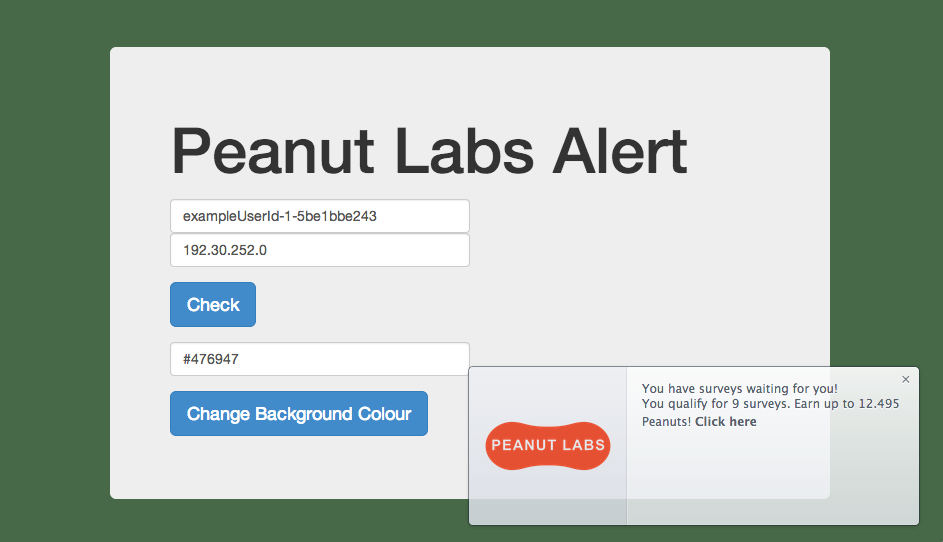
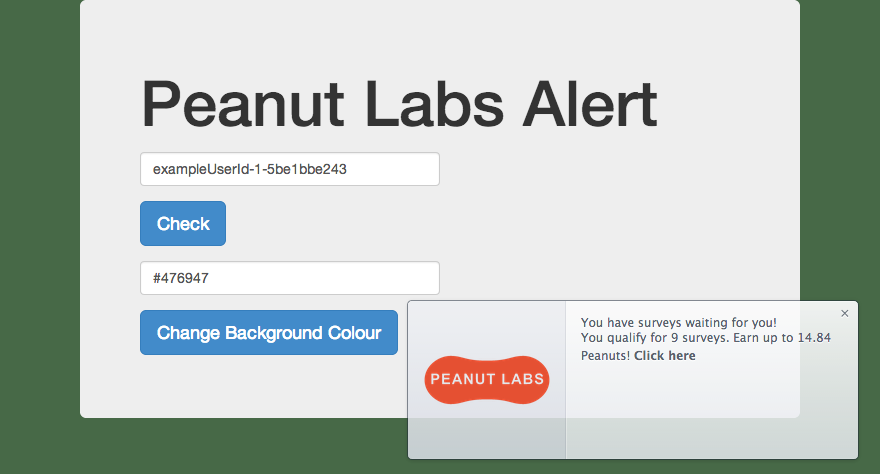
Finalized several small changes, rearranged and changed screenshot

Changed region(s): [[0.1534, 0.1477, 0.767, 0.8861], [0.092, 0.0, 0.9818, 0.9747]]

diff --git a/example.html b/example.html
@@ -2,17 +2,15 @@
 
 <head>
   <link href="http://netdna.bootstrapcdn.com/bootstrap/3.1.1/css/bootstrap.min.css" rel="stylesheet">
-  <link rel="stylesheet" type="text/css" href="stylesheet/style.css">
-  <script type="text/javascript" src="js/alert.js"></script>
+  <script type="text/javascript" src="alert.js"></script>
   
   <script type="text/javascript">
     function initAlert() {
       PeanutLabsAlert.initialize({
         userId: document.getElementById('user_id').value,
-        userIP: document.getElementById('user_ip').value,
         debugEnabled: true,
         hideAfter: 4, // seconds
-        iframeURL: 'http://peanutlabs.com/sampleIframe.php?userId=' + document.getElementById('user_id').value,
+        iframeURL: 'YOUR_IFRAME_URL_GOES_HERE',
         positionHorizontal: 'right',
         positionVertical: 'bottom',
         server: 'http://api.peanutlabs.com',
@@ -38,7 +36,6 @@
       <p>
         <form>
           <input id="user_id" type="text" class="form-control" style="width: 300px;" placeholder="User Id">
-          <input id="user_ip" type="text" class="form-control" style="width: 300px;" placeholder="User IP">
         </form>
       </p>
       <p>

diff --git a/alert.js b/alert.js
@@ -74,7 +74,7 @@
     };
 
     PeanutLabsAlert.prototype.getAPIUrl = function() {
-      return "" + this.ops.server + API_URL + "?user_id=" + this.ops.userId + "&user_ip=" + this.ops.userIP + "&jsonp=PeanutLabsAlert.handleAlert";
+      return "" + this.ops.server + API_URL + "?user_id=" + this.ops.userId + "&jsonp=PeanutLabsAlert.handleAlert";
     };
 
     PeanutLabsAlert.prototype.canShowAlert = function(data) {

diff --git a/README.md b/README.md
@@ -11,14 +11,14 @@ Survey Alert can either be used as is, or act as a jumping off point for buildin
 
 ## Example Usage
 
-Basic usage of the Survey Alert is shown in the included html file. To see the alert, a valid user ID and user IP need to be entered before clicking the 'Check' button ([for more information on these, see the Parameters section in the API guide](http://peanut-labs.github.io/publisher-doc/#methodcampaigns)). The alert should appear similar to that below:
+Basic usage of the Survey Alert is shown in the included html file. To see the alert in action, you will need to change the `iframeURL` to the url you have the iframe hosted on, then a valid user ID needs to be entered before clicking the 'Check' button ([for more information on this, see the Parameters section in the API guide](http://peanut-labs.github.io/publisher-doc/#methodcampaigns)). The alert should appear similar to that below:
 
 ![Example screenshot](../master/example-screenshot.png?raw=true)
 
 The way it is included into the page is very simple. Firstly the single javascript file is included in the head:
 
 ```html
-<script type="text/javascript" src="js/alert.js"></script>
+<script type="text/javascript" src="alert.js"></script>
 ```
 
 A function is also added to the head for initializing the alert with the needed parameters and the custom options (more information on these can be found in the Parameters and Basic Customization section below):
@@ -28,10 +28,9 @@ A function is also added to the head for initializing the alert with the needed 
   function initAlert() {
     PeanutLabsAlert.initialize({
       userId: document.getElementById('user_id').value,
-      userIP: document.getElementById('user_ip').value,
       debugEnabled: true,
       hideAfter: 4, // seconds
-      iframeURL: 'http://peanutlabs.com/sampleIframe.php?userId=' + document.getElementById('user_id').value,
+      iframeURL: 'YOUR_IFRAME_URL_GOES_HERE',
       positionHorizontal: 'right',
       positionVertical: 'bottom',
       server: 'http://api.peanutlabs.com',
@@ -47,7 +46,7 @@ And finally something on the page needs to call this function, which in this exa
 <a class="btn btn-lg btn-primary" href="javascript: initAlert();" role="button">Check</a>
 ```
 
-In an actual usage of the alert it would be more likely that you would call this differently, for example automatically after a page loads, passing it the user id and user ip.
+In an actual usage of the alert it would be more likely that you would call this differently, for example automatically after a page loads, passing it the user id.
 
 ## Parameters and Basic Customization
 
@@ -58,13 +57,13 @@ When initializing the Survey Alert there are a few parameters you are required t
  - **userId (required):**  
    The id of the user for which you wish to look up surveys. For more details on this check the API documentation.
 
- - **userIP (required):**  
-   The IP adress of the user for which you wish to look up surveys. For more details on this check the API documentation.
-
  - **iframeURL (required):**  
-   The url which is included on the alert and a user is prompted to click to go complete surveys.  This will most likely point to the page on which you have the iframe hosted.
+   The url which is included on the alert and the user is prompted to click to go complete surveys.  In the example code this currently has a placeholder, but in practice it will point to the page on which you have the iframe hosted.
 
 ### Optional Parameters:
+
+ - **userIP:**  
+   The IP adress of the user for which you wish to look up surveys. This is not required if you are issuing the API request from the users browser, but will be needed if you wish to make the call server to server. For more details on this check the API documentation.
 
  - **server:**  
    The server to which the api request will be sent.  It defaults to api.peanutlabs.com, and in most cases can be left as this.
@@ -94,7 +93,7 @@ When initializing the Survey Alert there are a few parameters you are required t
 
 Although it is completely possible to use the Survey Alert as is, it is highly encouraged to dig right into the code and just use this example as a jumpping off point for integrating the Monetization API more directly into your site.
 
-For customizing, rewriting or just looking through the Survey Alert as an example, it is reccommended you look at the coffeescript file in the `/src/` folder. This is the main commented source file, which is compiled with Cake into the javascript found in the `/js/` folder.
+For customizing, rewriting or just looking through the Survey Alert as an example, it is reccommended you look at the coffeescript file in the `/src/` folder. This is the main commented source file, which is compiled with Cake into the javascript found in the root.
 
 ### Custom Styling:
 
@@ -112,8 +111,8 @@ sendRequest: ->
   head = document.getElementsByTagName('head')[0]
   head.appendChild(script)
 
-# Formats the API request url, using the userId, userIp and server url from the options.
-getAPIUrl: -> "#{@ops.server}#{API_URL}?user_id=#{@ops.userId}&user_ip=#{@ops.userIP}&jsonp=PeanutLabsAlert.handleAlert"
+# Formats the API request url, using the userId and server url from the options, and passing in the JSONP parameter with the callback method you wish to trigger.
+getAPIUrl: -> "#{@ops.server}#{API_URL}?user_id=#{@ops.userId}&jsonp=PeanutLabsAlert.handleAlert"
 ```
 
 `sendRequest` appends a script element to the head, with the source pointing to the actual API request url itself. For more detail on the format of this request, look at the [API documentation itself](http://peanut-labs.github.io/publisher-doc/#methodcampaignssummary), but the key thing to note is the `jsonp=PeanutLabsAlert.handleAlert` parameter passed in. This causes the reseult returned by the API call to be wrapped with the `PeanutLabsAlert.handleAlert()` method call, passing the JSON result to that as a parameter.
